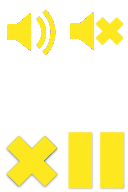
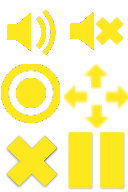
Nave y botones agregados

Changed region(s): [[0.0, 0.3125, 0.4688, 0.6562], [0.5, 0.4375, 1.0, 0.6875], [0.6562, 0.3125, 0.8438, 0.4688]]

diff --git a/src/screens/USFGameScreen.java b/src/screens/USFGameScreen.java
@@ -2,15 +2,13 @@ package screens;
 
 import java.util.List;
 
+import android.graphics.Color;
+
+import com.ultimateStarfighter.Aircraft;
 import com.ultimateStarfighter.Assets;
 import com.ultimateStarfighter.Settings;
-import com.ultimateStarfighter.Snake;
-import com.ultimateStarfighter.SnakePart;
-import com.ultimateStarfighter.Stain;
 import com.ultimateStarfighter.World;
 
-
-import android.graphics.Color;
 import framework.Game;
 import framework.Graphics;
 import framework.Input.TouchEvent;
@@ -68,11 +66,13 @@ public class USFGameScreen extends Screen {
                 }
             }
             if(event.type == TouchEvent.TOUCH_DOWN) {
+            	
                 if(event.x < 64 && event.y > 416) {
-                    world.snake.turnLeft();
+                    //world.snake.turnLeft();
+                	
                 }
                 if(event.x > 256 && event.y > 416) {
-                    world.snake.turnRight();
+                    //world.snake.turnRight();
                 }
             }
         }
@@ -150,7 +150,9 @@ public class USFGameScreen extends Screen {
 
     private void drawWorld(World world) {
         Graphics g = game.getGraphics();
-        Snake snake = world.snake;
+        Pixmap aircraftPixmap = Assets.aircraft;
+        Aircraft aircraft = world.aircraft;
+        /*Snake snake = world.snake;
         SnakePart head = snake.parts.get(0);
         Stain stain = world.stain;
         
@@ -184,8 +186,9 @@ public class USFGameScreen extends Screen {
         if(snake.direction == Snake.RIGHT) 
             headPixmap = Assets.headRight;        
         x = head.x * 32 + 16;
-        y = head.y * 32 + 16;
-        g.drawPixmap(headPixmap, x - headPixmap.getWidth() / 2, y - headPixmap.getHeight() / 2);
+        y = head.y * 32 + 16;*/
+        //g.drawPixmap(headPixmap, x - headPixmap.getWidth() / 2, y - headPixmap.getHeight() / 2);
+        g.drawPixmap(aircraftPixmap, aircraft.getX(), aircraft.getY());
     }
 
     private void drawReadyUI() {
@@ -237,7 +240,7 @@ public class USFGameScreen extends Screen {
                 srcWidth = 10;
             } else {
                 srcX = (character - '0') * 20;
-                srcWidth = 20;
+                srcWidth = 27;
             }
 
             g.drawPixmap(Assets.numbers, x, y, srcX, 0, srcWidth, 32);

diff --git a/src/com/ultimateStarfighter/World.java b/src/com/ultimateStarfighter/World.java
@@ -9,22 +9,24 @@ public class World {
     static final float TICK_INITIAL = 0.5f;
     static final float TICK_DECREMENT = 0.05f;
 
-    public Snake snake;
-    public Stain stain;
+    //public Snake snake;
+    //public Stain stain;
     public boolean gameOver = false;;
     public int score = 0;
 
-    boolean fields[][] = new boolean[WORLD_WIDTH][WORLD_HEIGHT];
+    //boolean fields[][] = new boolean[WORLD_WIDTH][WORLD_HEIGHT];
     Random random = new Random();
     float tickTime = 0;
     float tick = TICK_INITIAL;
+	public Aircraft aircraft;
 
     public World() {
-        snake = new Snake();
-        placeStain();
+        //snake = new Snake();
+        //placeStain();
+    	aircraft = new Aircraft(100,200);
     }
 
-    private void placeStain() {
+    /*private void placeStain() {
         for (int x = 0; x < WORLD_WIDTH; x++) {
             for (int y = 0; y < WORLD_HEIGHT; y++) {
                 fields[x][y] = false;
@@ -52,7 +54,7 @@ public class World {
             }
         }
         stain = new Stain(stainX, stainY, random.nextInt(3));
-    }
+    }*/
 
     public void update(float deltaTime) {
         if (gameOver)
@@ -62,6 +64,7 @@ public class World {
 
         while (tickTime > tick) {
             tickTime -= tick;
+            /*
             snake.advance();
             if (snake.checkBitten()) {
                 gameOver = true;
@@ -77,7 +80,7 @@ public class World {
                     return;
                 } else {
                     placeStain();
-                }
+                }*/
 
                 if (score % 100 == 0 && tick - TICK_DECREMENT > 0) {
                     tick -= TICK_DECREMENT;
@@ -85,4 +88,4 @@ public class World {
             }
         }
     }
-}
+

diff --git a/src/com/ultimateStarfighter/Aircraft.java b/src/com/ultimateStarfighter/Aircraft.java
@@ -1,10 +1,58 @@
 package com.ultimateStarfighter;
 
 public class Aircraft {
-	int x, y;
 	
-	int health;
-	int shield;
+	public Aircraft(int cordX, int cordY){
+		this.x = cordX;
+		this.y = cordY;
+	}
 	
-	Weapon weapon;
+	private int x, y;
+	
+	private int health;
+	private int shield;
+	
+	private Weapon weapon;
+
+	public int getX() {
+		return x;
+	}
+
+	public void setX(int x) {
+		this.x = x;
+	}
+
+	public int getY() {
+		return y;
+	}
+
+	public void setY(int y) {
+		this.y = y;
+	}
+
+	public int getHealth() {
+		return health;
+	}
+
+	public void setHealth(int health) {
+		this.health = health;
+	}
+
+	public int getShield() {
+		return shield;
+	}
+
+	public void setShield(int shield) {
+		this.shield = shield;
+	}
+
+	public Weapon getWeapon() {
+		return weapon;
+	}
+
+	public void setWeapon(Weapon weapon) {
+		this.weapon = weapon;
+	}
+	
+	
 }

diff --git a/src/screens/USFLoadingScreen.java b/src/screens/USFLoadingScreen.java
@@ -28,6 +28,7 @@ public class USFLoadingScreen extends Screen {
         //Si sirve
         Assets.pause = g.newPixmap("usfPauseMenu.png", PixmapFormat.ARGB4444);
         Assets.gameOver = g.newPixmap("usfGameOver.png", PixmapFormat.ARGB4444);
+        Assets.aircraft = g.newPixmap("f1.png",PixmapFormat.ARGB4444);
         //No nos sirve
         Assets.headUp = g.newPixmap("headup.png", PixmapFormat.ARGB4444);
         Assets.headLeft = g.newPixmap("headleft.png", PixmapFormat.ARGB4444);

diff --git a/src/com/ultimateStarfighter/Assets.java b/src/com/ultimateStarfighter/Assets.java
@@ -24,7 +24,7 @@ public class Assets {
     public static Pixmap stain2;
     public static Pixmap stain3;
     
-    public static Pixmap ship;
+    public static Pixmap aircraft;
     
     public static Sound click;
     public static Sound eat;
